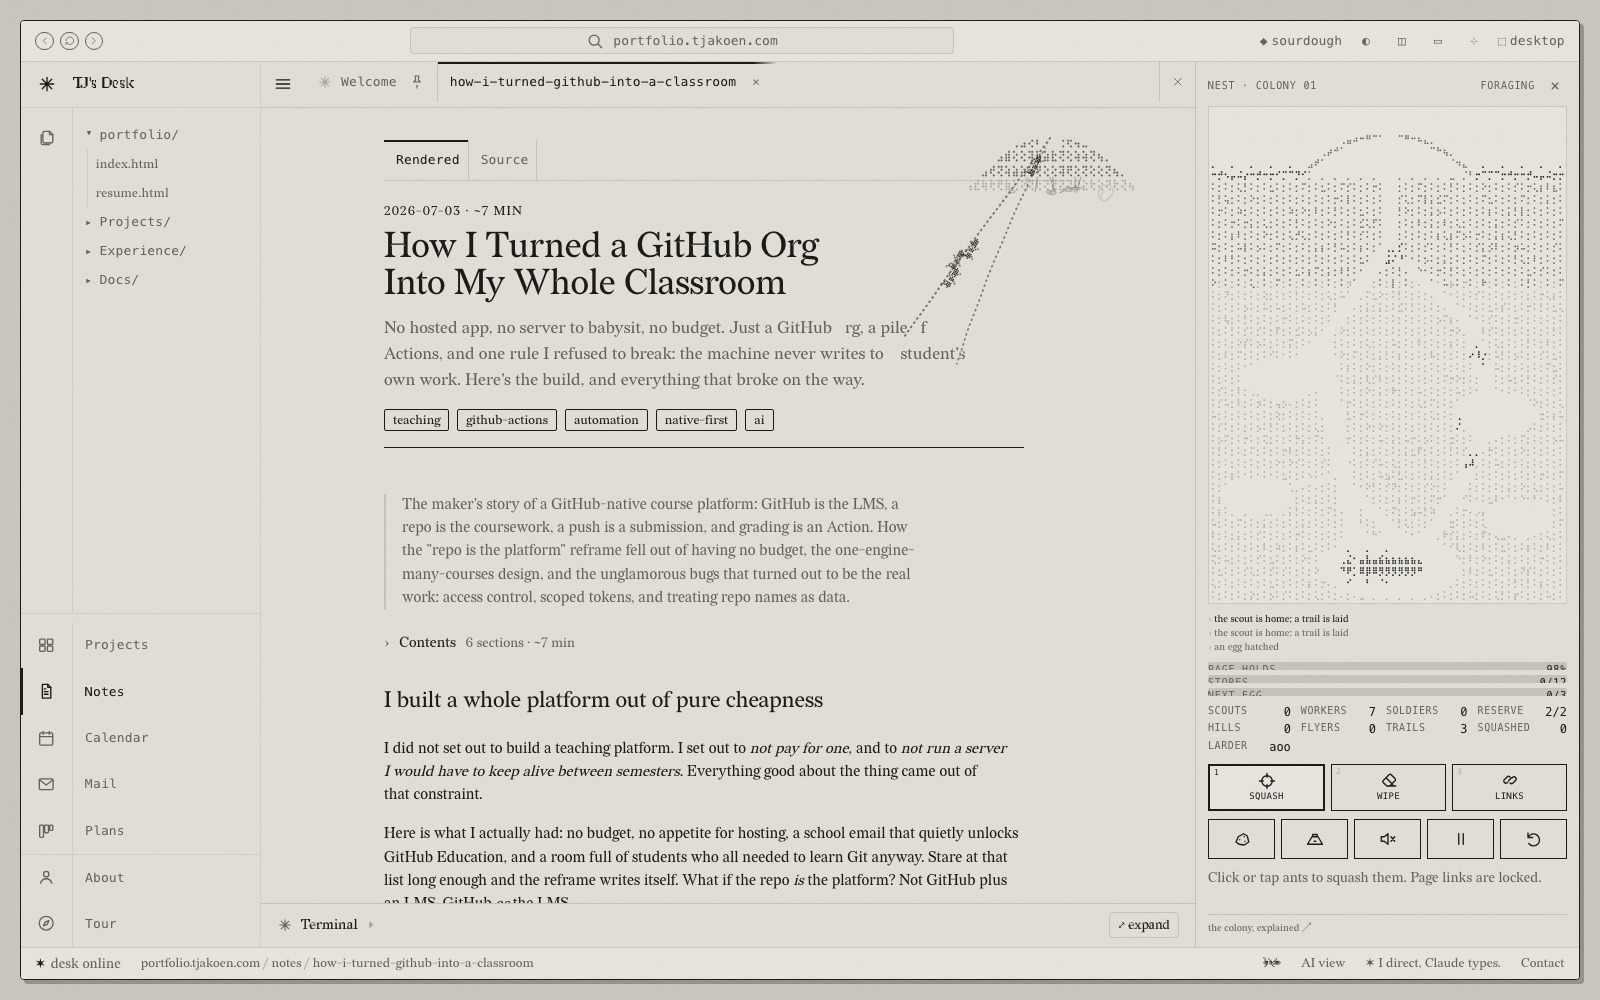
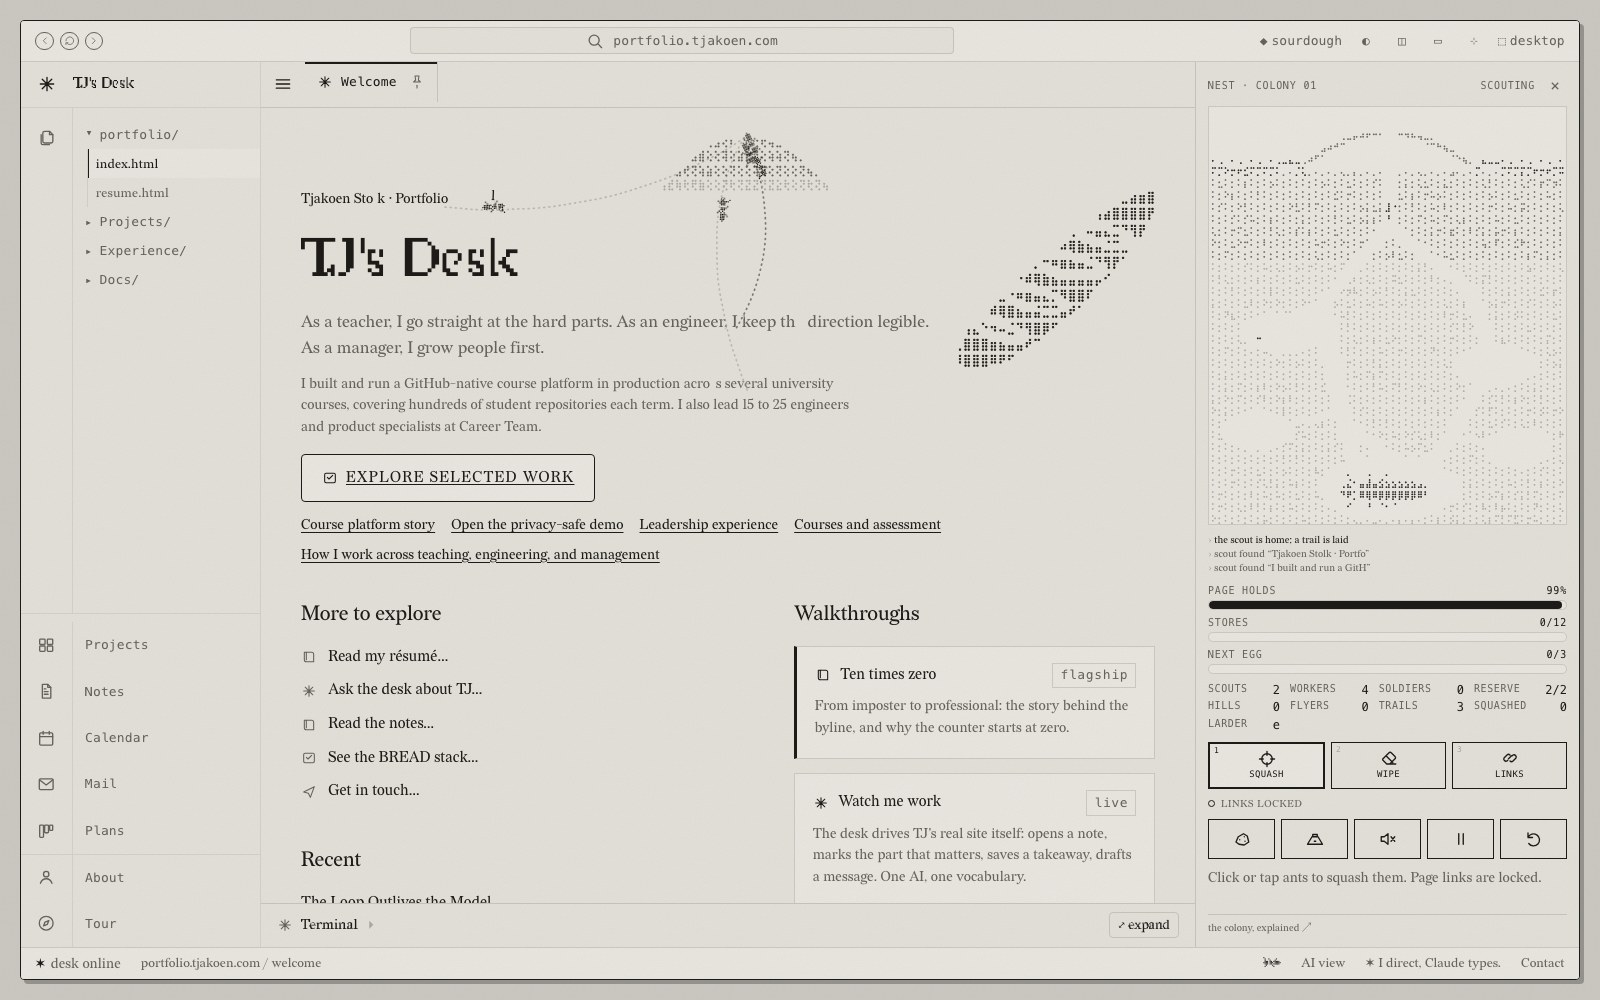
🐜 Keep scouts off one source and calm the trails

diff --git a/scripts/nest-mockup.js b/scripts/nest-mockup.js
@@ -165,9 +165,6 @@
     .nest-queen.bob { animation: nest-bob .55s ease-in-out infinite alternate; }
     .nest-orbit { position: absolute; white-space: pre; pointer-events: none; color: var(--color-accent); font: 11px/1 var(--font-mono); opacity: .75; }
     @keyframes nest-bob { to { transform: translateY(-3px); } }
-    .nest-decor { position: absolute; pointer-events: none; color: var(--ink-muted); opacity: .9; z-index: 0;
-      margin: 0; font: 13px/0.95 var(--font-mono); letter-spacing: -0.04em; -webkit-text-stroke: 0.05em currentColor;
-      white-space: pre; user-select: none; }
     #nest-mock .nest-meters { display: grid; gap: 5px; }
     #nest-mock .nest-meter { display: grid; grid-template-columns: 1fr auto; gap: 2px 8px; align-items: baseline; }
     #nest-mock .nest-meter__bar { grid-column: 1 / -1; height: 10px; background: var(--paper-2); border: 1px solid var(--color-line); border-radius: 999px; overflow: hidden; }
@@ -493,7 +490,7 @@
     return e.returnValue;
   };
   addEventListener("beforeunload", onBeforeUnload);
-  const state = { ants: [], eggs: [], trails: [], larder: [], stolen: new Set(), openingBlocks: new Set(), squashed: 0, meals: 0, paused: false,
+  const state = { ants: [], eggs: [], trails: [], larder: [], stolen: new Set(), squashed: 0, meals: 0, paused: false,
     reserve: 2, over: false, stores: 0, built: 0, feedFlip: false, peak: 0, stolenTotal: 0, sound: false,
     queen: { eat: 0, lay: 0 }, total: 0, party: null, partyIndex: 0, nextParty: TUNING.party[0], trailSerial: 0 };
   if (getComputedStyle(main).position === "static") main.style.position = "relative";
@@ -632,16 +629,6 @@
   const home = makeHill(firstSpot);
   const hillOf = (ant) => ant.trail?.hill || ant.hill || home;
 
-  // Braille decorations live in the empty margins, not around the mound.
-  const brailleDecor = (text, left, top) => {
-    const decor = document.createElement("pre");
-    decor.className = "nest-decor"; decor.setAttribute("aria-hidden", "true");
-    decor.textContent = text;
-    decor.style.left = left + "px"; decor.style.top = top + "px";
-    layer.append(decor);
-    return decor;
-  };
-
   // A trail feeds from a patch, the letters within PATCH pixels of where its scout found food, so
   // the ants on it visibly work one small area of the page.
   const PATCH = 70;
@@ -778,10 +765,17 @@
   const scout = (ant) => {
     const hole = hillOf(ant).hole;
     const opening = state.stolenTotal === 0 && state.meals === 0 && state.trails.length === 0;
+    // A block that already has a trail or a scout walking to it is taken. This is what keeps the
+    // first three scouts off one paragraph, and later scouts off an active source.
+    const busyBlocks = new Set([
+      ...state.trails.map((t) => t.block),
+      ...state.ants.filter((a) => a.job === "scout" && a.block).map((a) => a.block),
+    ]);
     const options = [];
     for (const n of textNodes(main)) for (let i = 0; i < n.data.length; i += 3) {
       if (!/\S/.test(n.data[i]) || letterOf(n, i).state !== "free") continue;
       const r = rectOf(n, i); if (!r.width) continue;
+      if (busyBlocks.has(blockOf(n))) continue;
       const [x, y] = local(r);
       if (opening && (!onScreen(r) || Math.hypot(x - hole[0], y - hole[1]) > TUNING.firstScoutRange)) continue;
       if (state.trails.some((t) => Math.hypot(t.end[0] - x, t.end[1] - y) < PATCH * 2)) continue;
@@ -789,35 +783,43 @@
     }
     if (!options.length) {
       // The opening hint can miss on a page with a wide empty margin. Fall back to any free
-      // letter on the page before turning the scout around, or the colony can loop forever.
+      // block before turning the scout around, or the colony can loop forever.
+      const free = [];
       for (const n of textNodes(main)) for (let i = 0; i < n.data.length; i += 3) {
         if (!/\S/.test(n.data[i]) || letterOf(n, i).state !== "free") continue;
         const r = rectOf(n, i); if (!r.width) continue;
         const [x, y] = local(r);
-        options.push([n, x + r.width / 2, y + r.height]);
+        free.push([n, x + r.width / 2, y + r.height]);
       }
+      const open = free.filter((o) => !busyBlocks.has(blockOf(o[0])));
+      options.push(...(open.length ? open : free));
     }
     if (!options.length) { ant.role = "worker"; ant.job = "home"; ant.path = [hole.slice()]; ant.k = 0; return; }
-    const fresh = opening ? options.filter((o) => !state.openingBlocks.has(blockOf(o[0]))) : [];
-    const pool = fresh.length ? fresh : options;
     const pick = opening
-      ? pool.reduce((best, o) => (Math.hypot(o[1] - hole[0], o[2] - hole[1]) < Math.hypot(best[1] - hole[0], best[2] - hole[1]) ? o : best), pool[0])
+      ? options.reduce((best, o) => (Math.hypot(o[1] - hole[0], o[2] - hole[1]) < Math.hypot(best[1] - hole[0], best[2] - hole[1]) ? o : best), options[0])
       : options[Math.floor(Math.random() * options.length)];
     const [node, tx, ty] = pick;
     const block = blockOf(node);
-    if (opening) state.openingBlocks.add(block);
-    // A wandering line, not one bow: a main curve, a cross-wave and a small skew. The first
-    // version read as a straight line with a single sag, so the scent looked drawn, not walked.
+    // One soft C or S through two random control points, with a little walk in the line. The
+    // three-wave version read like a graph, and one symmetric bow read like a straight line.
     const dx = tx - hole[0], dy = ty - hole[1], dist = Math.hypot(dx, dy) || 1;
     const nx = -dy / dist, ny = dx / dist;
-    const amp = Math.min(48, Math.max(14, dist * 0.22) * (0.8 + Math.random() * 0.4));
-    const amp2 = Math.min(16, Math.max(6, dist * 0.06) * (0.55 + Math.random() * 0.8)) * (Math.random() < 0.5 ? -1 : 1);
-    const amp3 = Math.min(6, Math.max(2, dist * 0.025)) * (Math.random() < 0.5 ? -1 : 1);
+    const amp = Math.min(54, Math.max(11, dist * 0.23));
+    const side = Math.random() < 0.5 ? -1 : 1;
+    const c1 = amp * (0.6 + Math.random() * 0.8) * side;
+    const c2 = amp * (0.25 + Math.random() * 0.75) * (Math.random() < 0.28 ? -side : side);
+    const p0 = [hole[0], hole[1]];
+    const p1 = [hole[0] + dx * 0.3 + nx * c1, hole[1] + dy * 0.3 + ny * c1];
+    const p2 = [hole[0] + dx * 0.7 + nx * c2, hole[1] + dy * 0.7 + ny * c2];
+    const p3 = [tx, ty];
+    const phase = Math.random() * Math.PI * 2;
     const path = [];
     for (let s = 0; s <= 28; s++) {
-      const k = s / 28;
-      const bow = Math.sin(Math.PI * k) * amp + Math.sin(Math.PI * 3 * k) * amp2 + Math.sin(Math.PI * 2 * k) * amp3;
-      path.push([hole[0] + dx * k + nx * bow, hole[1] + dy * k + ny * bow]);
+      const k = s / 28, u = 1 - k;
+      const bx = u * u * u * p0[0] + 3 * u * u * k * p1[0] + 3 * u * k * k * p2[0] + k * k * k * p3[0];
+      const by = u * u * u * p0[1] + 3 * u * u * k * p1[1] + 3 * u * k * k * p2[1] + k * k * k * p3[1];
+      const wobble = (Math.sin(k * 5.2 + phase) * 1.1 + Math.sin(k * 9.7 + phase * 1.7) * 0.5) * Math.sin(Math.PI * k);
+      path.push([bx + nx * wobble, by + ny * wobble]);
     }
     ant.job = "scout"; ant.block = block; ant.path = chaikin(path, 1); ant.k = 0; ant.walked = [hole.slice()];
   };
@@ -1158,43 +1160,6 @@
   };
   const overlaps = (a, b) => a[0] < b[2] && a[2] > b[0] && a[1] < b[3] && a[3] > b[1];
 
-  // A couple of ground pieces away from the hill, in empty space, so the page itself feels
-  // inhabited rather than only the mound. They are decorations: no clicks, no game state.
-  const scatterDecor = () => {
-    const rects = [];
-    for (const n of textNodes(main)) {
-      if (!/\S/.test(n.data)) continue;
-      const range = document.createRange(); range.selectNodeContents(n);
-      for (const r of range.getClientRects()) { const [x, y] = local(r); rects.push([x, y, x + r.width, y + r.height]); }
-    }
-    main.querySelectorAll("img, svg, pre, figure, hr").forEach((el) => {
-      if (layer.contains(el)) return;
-      const c = el.getBoundingClientRect();
-      if (c.width) { const [x, y] = local(c); rects.push([x, y, x + c.width, y + c.height]); }
-    });
-    const pieces = [
-      "⠁⠂\n⠉⠊\n⣀⣀",
-      "⠒⠲\n⠶⠦\n⣀⣀",
-      "⠢⠔\n⠪⠕\n⣀⣀",
-      "⠶⠶\n⠂\n⣀⣀",
-    ];
-    const bands = [[0.08, 0.3], [0.3, 0.55], [0.55, 0.78], [0.78, 0.94]];
-    const picked = [];
-    bands.forEach(([from, to], i) => {
-      for (let tries = 0; tries < 80; tries++) {
-        const x = (i % 2 ? main.clientWidth - 54 : 30) + (Math.random() - 0.5) * 26;
-        const y = main.scrollTop + main.clientHeight * (from + Math.random() * (to - from));
-        const box = [x - 24, y - 28, x + 24, y + 6];
-        if (rects.some((r) => overlaps(box, r))) continue;
-        if ([...hills, ...minis].some((mound) => Math.hypot(mound.base[0] - x, mound.base[1] - y) < 150)) continue;
-        if (picked.some((p) => Math.hypot(p[0] - x, p[1] - y) < 110)) continue;
-        picked.push([x, y, i]);
-        break;
-      }
-    });
-    picked.forEach(([x, y, i]) => brailleDecor(pieces[i], x - 12, y - 26));
-  };
-  scatterDecor();
   // The compact mound fits on a line of prose. An open-ground site also needs room for its badge.
   const miniBox = ({ x, y, gap }) => [x - 30, y - (gap ? 20 : 34), x + 30, y + 2];
   const miniTerrain = (includeMinis = true) => {

diff --git a/e2e/terminal.e2e.ts b/e2e/terminal.e2e.ts
@@ -9,6 +9,7 @@ import mailbox from "../content/data/mailbox.json" with { type: "json" };
 declare global {
   interface Window {
     __nestStray?: { spawn: (force?: boolean) => void; cancel: () => void };
+    __nest?: { state: { ants: Array<{ role: string; block: Element | null }> } };
   }
 }
 
@@ -91,6 +92,18 @@ test.describe("the interactive terminal (third client of the one door)", () => {
       if (!bread || !hill || !bread.width || !hill.width) return false;
       return hill.left < bread.right && hill.right > bread.left && hill.top < bread.bottom && hill.bottom > bread.top;
     })).toBe(false);
+  });
+
+  test("the first three scouts take different source blocks", async ({ page }) => {
+    await page.goto("/?nest-debug");
+    await page.locator(".nest-switch").click();
+    await expect(page.locator("#nest-mock")).toBeVisible();
+    await page.waitForFunction(() => (window.__nest?.state.ants.filter((a) => a.role === "scout" && a.block).length ?? 0) >= 3);
+    const blocks = await page.evaluate(() => window.__nest!.state.ants
+      .filter((a) => a.role === "scout" && a.block)
+      .map((a) => (a.block!.textContent || "").trim().slice(0, 40)));
+    expect(blocks).toHaveLength(3);
+    expect(new Set(blocks).size).toBe(3);
   });
 
   test("the stray command sends an ant that runs for the launcher", async ({ page }) => {

diff --git a/artifacts/runs/2026-11-08-nest-polish.md b/artifacts/runs/2026-11-08-nest-polish.md
@@ -16,8 +16,8 @@ touched:
   - e2e/terminal.e2e.ts
   - artifacts/runs/2026-11-08-nest-polish.md
 diffstat: one game file of 760 changed lines, the note copy, its two screenshots and social card, the review tour and the terminal e2e
-unpushed: 16 | the branch is local for review
-verifiedBy: three light and dark browser runs, a forced party, a forced mini hill, a 12 second guard sample, a real trail wipe, a real squash, an animated stray check, a stray-exit check, a three-wave trail check, an opening-source check, a page-leave confirm check, a stray command check, a session stray check, a trail-bend and text-selection check, a page-switch close check, a bread-overlap check, a sidebar overflow check, a help and query-shortcut check, a rendered note check, and the terminal e2e
+unpushed: 17 | the branch is local for review
+verifiedBy: three light and dark browser runs, a forced party, a forced mini hill, a 12 second guard sample, a real trail wipe, a real squash, an animated stray check, a stray-exit check, a trail-shape check, a scout-source check, a page-leave confirm check, a stray command check, a session stray check, a trail-bend and text-selection check, a page-switch close check, a bread-overlap check, a sidebar overflow check, a help and query-shortcut check, a rendered note check, and the terminal e2e
 doctor: 23 checks, 0 failing, 1 due | the Claude Code context budget remains due
 ---
 
@@ -30,8 +30,8 @@ for the checks.
 ## What changed
 
 **Traffic.** The old wobble was a sideways kick every frame. It is now a small sway folded into a
-smoothed heading, with a turn-rate cap. Scout routes are a three-wave wander (a main bow, a
-cross-wave and a small skew), then Chaikin, not four random jumps. Trails are drawn as the same smooth path with a paper-coloured under-stroke
+smoothed heading, with a turn-rate cap. Scout routes are one cubic C or S through two random
+control points, with a little walk in the line, then Chaikin, not four random jumps. Trails are drawn as the same smooth path with a paper-coloured under-stroke
 and a dotted scent line. Ants on a trail get an outbound and a return lane, so they no longer walk
 the same three pixels, and a queued ant slows instead of stopping dead. The line is five ants, not
 six, and the colony caps at twenty.
@@ -50,11 +50,11 @@ mandibles. The permanent link line from a mini hill to a trail is gone, so a sol
 scent. Their patrol gets a six second progress check: a guard that moves less than thirty pixels
 re-homes instead of standing in the dirt.
 
-**The opening.** Three scouts and three workers start. Each opening scout takes a different block,
-so the first three trails point at different paragraphs instead of one source. The first scout keeps
-its first find within 240 pixels of the hill, the first egg is laid at six seconds, and the first
-hatch comes at 3.4 seconds of incubation. The first trail appeared at seven seconds in the measured
-run and three trails were open by nine.
+**The opening.** Three scouts and three workers start. A block with a trail or a scout is taken,
+so the first three scouts and later ones stay off each other's source. The first scout keeps its
+first find within 240 pixels of the hill, the first egg is laid at six seconds, and the first hatch
+comes at 3.4 seconds of incubation. The first trail appeared at seven seconds in the measured run
+and three trails were open by nine.
 
 **The page is the environment.** The home hill is still sited in the visible viewport, so nothing
 makes the player scroll to find it, but scouts can work the whole page afterwards. The automatic
@@ -103,13 +103,11 @@ next to `reveal the ant colony`. `?nest-debug` only exposes the local test hooks
 **The note.** The public note now carries the bug joke ("My portfolio has bugs now"), the
 always-visible launcher and the help line, the ninety second trail fade, the soldier and mini hill
 dots, the twenty and fifty letter dances, the refresh reset, the stray ant and its `stray`
-command, and the ground and sound details.
+command, and the sound details.
 
-**The ground.** A few Braille pieces are scattered in the empty margins, grass, stones, a leaf and
-a mushroom, the same alphabet as the hill and the sidebar nest. Nothing sits around the anthill, so
-the mound stays clean. The bread is a PRE, and the first obstacle scan skipped PRE; it is now solid
-for the hill, the scattered pieces and the mini hills. The decor is theme-token colour, never
-catches a click, and stays still under reduced motion.
+**The page.** The scattered ground decor is gone; the hill and the trails sit on the page alone.
+The bread is a PRE, and the first obstacle scan skipped PRE; it is now solid for the hill and the
+mini hills.
 
 **The mini hill language.** No words or count dots on the page. The mound thins as it takes hits,
 and the guards are the ants visible on patrol. The element is a keyboard button with an aria label
@@ -135,7 +133,7 @@ $ bun test
 Ran 875 tests across 48 files. [9.74s]
 
 $ bunx playwright test e2e/terminal.e2e.ts --ignore-snapshots
-  11 passed (33.8s)
+  12 passed (32.7s)
 
 $ bunx oxlint scripts/nest-mockup.js
 Found 0 warnings and 0 errors.
@@ -157,9 +155,8 @@ run does not touch. The game file itself is clean.
 ## What was shown
 
 The note's two screenshots and its social card were regenerated against the new panel and the new
-trails. The session also showed a light run, a dark run, a forced dance, a close crop of the ground
-decor, a close crop of a mini hill, a real trail wipe, and a real
-squash.
+trails. The session also showed a light run, a dark run, a forced dance, a close crop of a mini hill,
+a real trail wipe, and a real squash.
 
 ## What was not done
 
@@ -174,6 +171,6 @@ alone. The old screenshot inside the first note image is recursive by nature and
 Play the first minute on the home page and on a note, in both colour schemes. Watch whether the
 new trail weight reads as scent rather than as a dotted rule. Wipe a trail and squash a soldier to
 see whether the two animations land at the right speed. Let a mini hill stand and watch a guard
-patrol away from it. Look at the scattered Braille pieces and decide whether their amount and placement are
-right. The dance is the one call that is still a taste question: nine seconds, queen on the
+patrol away from it. Watch the trail shape and decide whether the cubic reads as walked rather than
+plotted. The dance is the one call that is still a taste question: nine seconds, queen on the
 hill, glyphs in orbit.

diff --git a/content/notes/the-site-has-ants.md b/content/notes/the-site-has-ants.md
@@ -45,7 +45,7 @@ Click the ant, and an anthill turns up in an empty patch of whatever page you ar
 
 ## What the ants actually do
 
-Three scouts leave the hill first, each taking a different paragraph, so the opening does not put every trail on one source. Each one wanders to a letter, picks it up, and walks it home. The letter it takes is the real glyph, in its real font, color and underline, and the space it leaves stays exactly where it was, so the paragraph never reflows. You just watch it get gappier.
+Three scouts leave the hill first, each taking a different paragraph, and later scouts stay off a block that already has a trail or a scout on the way. Each one wanders to a letter, picks it up, and walks it home. The letter it takes is the real glyph, in its real font, color and underline, and the space it leaves stays exactly where it was, so the paragraph never reflows. You just watch it get gappier.
 
 A scout that makes it home lays a scent trail. Workers follow trails five to a line, filled in turn so no trail starves, and a heading in a big font needs a crew of two or three to lift. A trail fades when its patch is empty or after ninety seconds, and a worker turns scout to find the next one. Once the colony passes eight, soldiers hatch: bigger, quieter in color than a worker, and worth two hits.
 
@@ -96,13 +96,13 @@ The endings were the part I argued with myself about longest. A portfolio is not
 
 ## Built on the same stack as everything else
 
-No canvas, no game library, no framework. The nest in the sidebar is a grid of Braille characters, each cell eight dots, colored by the theme's own tokens, the same trick as the bread on the home page. The ants are tiny inline SVGs made of round dots, two leg frames swapping. Every color comes from the active flavor of [GRAIN](/grain), so the game is blue on baguette and gold on brioche without me writing a line for either. It is one plain JavaScript file. A few Braille pieces are scattered in the empty margins, grass, stones, a leaf and a mushroom, the same alphabet as the hill and the sidebar nest. Nothing sits around the anthill. The sound is synthesized in the same file: a few oscillators and one noise buffer, no audio files.
+No canvas, no game library, no framework. The nest in the sidebar is a grid of Braille characters, each cell eight dots, colored by the theme's own tokens, the same trick as the bread on the home page. The ants are tiny inline SVGs made of round dots, two leg frames swapping. Every color comes from the active flavor of [GRAIN](/grain), so the game is blue on baguette and gold on brioche without me writing a line for either. It is one plain JavaScript file. The sound is synthesized in the same file: a few oscillators and one noise buffer, no audio files.
 
 That was the point of building it at all. A design system that only renders documents is half a claim. This one also renders a small ecosystem that steals from the documents.
 
 ## Where the time actually went
 
-Not into the fun parts. Into traffic. The first colony read like a centipede, ants nose to tail. Then every ant piled onto the first trail and ignored the second. Then two trails crossed and the whole colony gridlocked, each ant politely waiting for the one in front of it, forever. The fix there was letting ants only queue behind ants on their own trail heading their own way, plus a timeout for the stubborn ones. Later I gave each trail two lanes and gave the scout's route three waves, because a trail should look walked, not sampled. Real ants solved that a long time ago. It took me a few evenings.
+Not into the fun parts. Into traffic. The first colony read like a centipede, ants nose to tail. Then every ant piled onto the first trail and ignored the second. Then two trails crossed and the whole colony gridlocked, each ant politely waiting for the one in front of it, forever. The fix there was letting ants only queue behind ants on their own trail heading their own way, plus a timeout for the stubborn ones. Later I gave each trail two lanes and drew the scout's route as one soft cubic with a little walk in it, because a trail should look walked, not sampled. Real ants solved that a long time ago. It took me a few evenings.
 
 Claude did most of the typing, which will surprise nobody who has read [how I work](ten-times-zero.md). The calls were mine: ants that take real letters, gaps that never reflow, no announced ending, and the bit where a professional site hides a game behind a small ant and a word you have to know to type.
 

diff --git a/plans/ant-nest-game.md b/plans/ant-nest-game.md
@@ -46,8 +46,8 @@ unreadable and the colony has won that page.
 
 - **Always on the desk.** The ant sits in the status bar on every page. Click it to open the
   colony; the `nest` terminal command opens it too. There is no query-string shortcut.
-- **The colony.** Three scouts and three workers to start. The first three scouts take different
-  blocks, so the opening does not point every trail at one source. A scout draws a faint route as it walks,
+- **The colony.** Three scouts and three workers to start. A block with a trail or a scout is taken,
+  so the first three scouts and later ones stay off each other's source. A scout draws a faint route as it walks,
   the route firms up when the scout carries the first letter home, workers take open trails in turn,
   five to a line, and a trail fades when its patch empties or after ninety seconds. A successor
   scout goes out as the old trail fades. Soldiers hatch once the colony passes eight and take two
